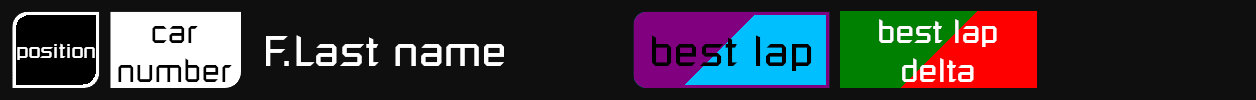
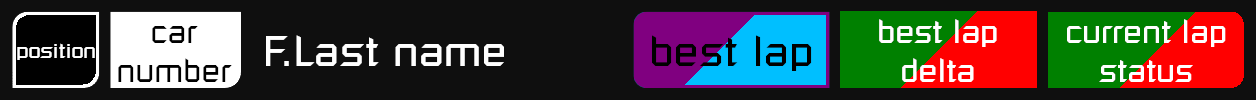
version 1.4 changes README update
added quali box with current lap status
added new screenshots as gifs
updated DynLeaderboard plugin version

Changed region(s): [[0.8073, 0.12, 0.9936, 0.9]]

diff --git a/README.md b/README.md
@@ -1,36 +1,23 @@
 # Simhub relative leaderboard overlay
 
-## screens
-
-![gaps-screen1-RelativeOnTrack](images/gaps-screen1-RelativeOnTrack.png)
-![gaps-screen1-RelativeOverall](images/gaps-screen1-PartialRelativeOverall.png)  
-![gaps-screen1-PartialRelativeOverall](images/gaps-screen1-PartialRelativeClass.png)
-![gaps-screen2-RelativeOnTrack](images/gaps-screen2-RelativeOnTrack.png)
-
-## screen 1
-
 ### race
-<img src="images/screen1-row.png" width ="750px">
+
+<img src="images/screen1-row.png" width ="400px"> <img src="images/screen2-row.png" width ="400px">
+<img src="images/gaps-screen1-race.gif" width ="400px"> <img src="images/gaps-screen2-race.gif" width ="400px">
 
 ### qualify
-<img src="images/screen1-qualify-row.png" width ="750px">
 
-## screen 2
-
-### race
-<img src="images/screen2-row.png" width ="750px">
-
-### qualify
-<img src="images/screen2-qualify-row.png" width ="750px">
+<img src="images/screen1-qualify-row.png" width ="400px"> <img src="images/screen2-qualify-row.png" width ="400px">
+<img src="images/gaps-screen1-quali.gif" width ="400px"> <img src="images/gaps-screen2-quali.gif" width ="400px">
 
 ## background colors
 
-| position box color                                                    | delta box color                                                          | times box color                                                       |
-| --------------------------------------------------------------------- | ------------------------------------------------------------------------ | --------------------------------------------------------------------- |
-| <img src="images/position-GT3.png" height="20px">   GT3               | <img src="images/box-red.png" height="20px">         more than +0.5s     | <img src="images/box-purple.png" height="20px">      session best lap |
-| <img src="images/position-GT4.png" height="20px">   GT4               | <img src="images/box-orangeRed.png" height="20px">   from +0.1s to +0.5s | <img src="images/box-deepSkyBlue.png" height="20px"> driver best lap  |
-| <img src="images/position-ST15.png" height="20px">  Super Trofeo 2015 | <img src="images/box-white.png" height="20px">       from +0.1s to -0.1s | <img src="images/box-white.png" height="20px">       driver last lap  |
-| <img src="images/position-ST21.png" height="20px">  Super Trofeo 2021 | <img src="images/box-greenYellow.png" height="20px"> from -0.1s to -0.5s |
+| position box color                                                    | delta box color                                                          | time box color                                                        | current lap status                                         |
+| --------------------------------------------------------------------- | ------------------------------------------------------------------------ | --------------------------------------------------------------------- | ---------------------------------------------------------- |
+| <img src="images/position-GT3.png" height="20px">   GT3               | <img src="images/box-red.png" height="20px">         more than +0.5s     | <img src="images/box-purple.png" height="20px">      session best lap | <img src="images/box-green.png" height="20px">    fast lap |
+| <img src="images/position-GT4.png" height="20px">   GT4               | <img src="images/box-orangeRed.png" height="20px">   from +0.1s to +0.5s | <img src="images/box-deepSkyBlue.png" height="20px"> driver best lap  | <img src="images/box-red.png" height="20px">   invalid lap |
+| <img src="images/position-ST15.png" height="20px">  Super Trofeo 2015 | <img src="images/box-white.png" height="20px">       from +0.1s to -0.1s | <img src="images/box-white.png" height="20px">       driver last lap  | <img src="images/box-orangeRed.png" height="20px"> out lap |
+| <img src="images/position-ST21.png" height="20px">  Super Trofeo 2021 | <img src="images/box-greenYellow.png" height="20px"> from -0.1s to -0.5s |                                                                       | <img src="images/box-black.png" height="20px">      in pit |
 | <img src="images/position-CHL.png" height="20px">   Ferrari Challenge | <img src="images/box-green.png" height="20px">       less than -0.5s     |
 | <img src="images/position-CUP17.png" height="20px"> Porsche CUP 2017  | <img src="images/box-black.png" height="20px">       car in pit lane*    |
 | <img src="images/position-CUP21.png" height="20px"> Porsche CUP 2021  | <img src="images/box-checkered.png" height="20px">   car finished*       |
@@ -40,19 +27,19 @@
 
 ## dependencies
 
-- [SimHub V8](https://www.simhubdash.com/download-2/) (tested on 8.1.3)
-- [SimHub ACC Dynamic Leaderboards Plugin v1.2.0](https://github.com/kaiusl/KLPlugins.DynLeaderboards/tree/v1.2.0)
+- [SimHub V8](https://www.simhubdash.com/download-2/) (tested on 8.2.0)
+- [SimHub ACC Dynamic Leaderboards Plugin v1.2.2](https://github.com/kaiusl/KLPlugins.DynLeaderboards/tree/v1.2.2)
 
 ## setup
 
 ### Dynamic Leaderboards Plugin
 
-all data comes from plugin so first go to [Plugin Getting started instructions](https://github.com/kaiusl/KLPlugins.DynLeaderboards/tree/v1.2.0#getting-started) and setup plugin
+all data comes from plugin so first go to [Plugin Getting started instructions](https://github.com/kaiusl/KLPlugins.DynLeaderboards/tree/v1.2.2#getting-started) and setup plugin
 
 #### leaderboard rotation
 
 by default overlay have this leaderboards:
-- RelativeOnTrack
+- RelativeOnTrackWoPit
 - RelativeOverall
 - PartialRelativeClass
 
@@ -64,7 +51,7 @@ leaderboard name `gaps`
 ### overlay setup
 
 - download [latest](https://github.com/serek4/simhub-gaps-overlay/releases/latest) release
-- import [gaps-overlay.simhubhash](gaps-overlay.simhubdash) to SimHub (double click)
+- import `gaps-overlay-v1.4.simhubdash` to SimHub (double click)
 - copy content of SimHub folder to SimHub root folder `C:\Program Files (x86)\SimHub\`
 - restart SimHub
 
